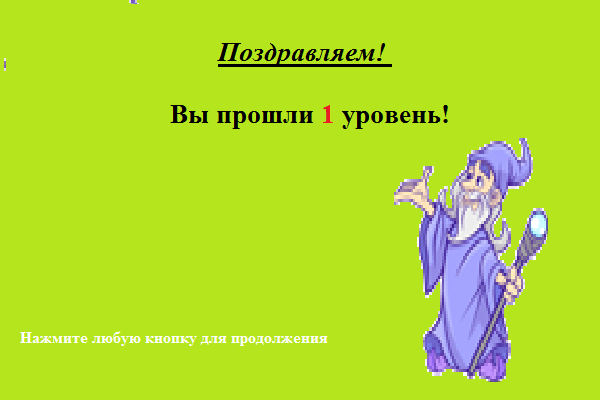
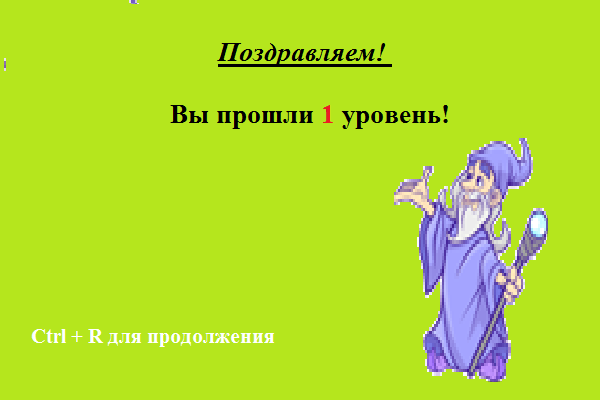
Исправлены ошибки.

Changed region(s): [[0.03, 0.81, 0.57, 0.87]]

diff --git a/Main.py b/Main.py
@@ -211,7 +211,7 @@ class Hero(pygame.sprite.Sprite):
                             coin.rect.x += 100
                         for island in islands_group:
                             island.rect.x += 100
-                        house.rect.x -= 100
+                        house.rect.x += 100
                     else:
                         for level in levels_group:
                             level.rect.x -= 100
@@ -221,7 +221,7 @@ class Hero(pygame.sprite.Sprite):
                             coin.rect.x -= 100
                         for island in islands_group:
                             island.rect.x -= 100
-                        house.rect.x += 100
+                        house.rect.x -= 100
                     Health_monster(dragon)
 
                     if self.health < 0:
@@ -790,6 +790,7 @@ while running:
 
             # Перезагрузка уровня при нажатии Ctrl + R
             if pygame.key.get_pressed()[pygame.K_LCTRL] and pygame.key.get_pressed()[pygame.K_r]:
+                gameover = False
                 restart()
 
             # Всплывающая подсказка
@@ -824,6 +825,7 @@ while running:
         air = True
     else:
         air = False
+
     # Если герой за пределами экрана происходит рестарт уровня
     if hero.rect.y > 420:
         the_end()
